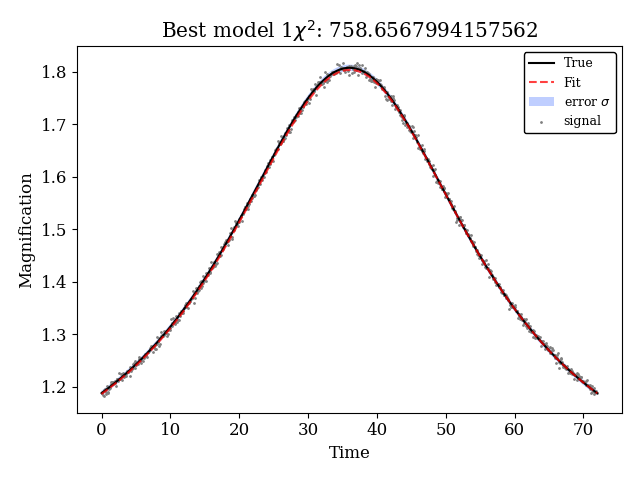
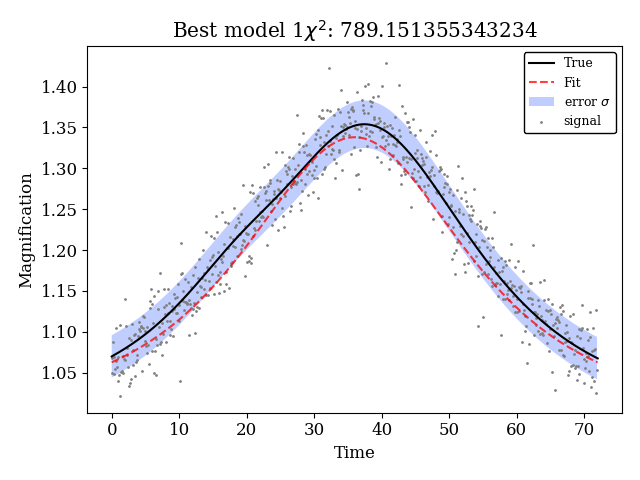
plot for talk

diff --git a/ReversibleJump.py b/ReversibleJump.py
@@ -45,23 +45,23 @@ sn = 2
 theta_Models = [
     [36, 0.633, 31.5, 0.0096, 0.025, 1.27, 210.8], # 0 strong binary
     [36, 0.133, 31.5, 0.0096, 0.00091, 1.3, 210.8], # 1 weak binary 1
-    [36, 0.833, 21.5, 0.0056, 0.003, 1.3, 210.8], # 2 weak binary 2
+    [36, 0.933, 21.5, 0.0056, 0.065, 1.1, 210.8], # 2 weak binary 2
     [36, 0.833, 31.5, 0.0096, 0.0001, 4.9, 223.8], # 3 indistiguishable from single
     [36, 0.633, 31.5]  # 4 single
     ]
 theta_Model = np.array(theta_Models[sn])
 # 36, 'u_0': 0.833, 't_E': 21.5, 'rho': 0.0056, 'q': 0.025, 's': 1.3, 'alpha': 210.8
-#Model = mm.Model(dict(zip(['t_0', 'u_0', 't_E', 'rho', 'q', 's', 'alpha'], theta_Model)))
-#Model.set_magnification_methods([0., 'VBBL', 72.])
+Model = mm.Model(dict(zip(['t_0', 'u_0', 't_E', 'rho', 'q', 's', 'alpha'], theta_Model)))
+Model.set_magnification_methods([0., 'VBBL', 72.])
 
-Model = mm.Model(dict(zip(['t_0', 'u_0', 't_E'], theta_Model)))
-Model.set_magnification_methods([0., 'point_source', 72.])
+#Model = mm.Model(dict(zip(['t_0', 'u_0', 't_E'], theta_Model)))
+#Model.set_magnification_methods([0., 'point_source', 72.])
 
 Model.plot_magnification(t_range=[0, 72], subtract_2450000=False, color='black')
 plt.savefig('temp.jpg')
 plt.clf()
 
-#throw=throw
+
 
 #0, 50, 25, 0.3
 # Generate "Synthetic" Lightcurve
@@ -73,7 +73,7 @@ true_data = Model.magnification(epochs)
 #error = Model.magnification(epochs) * 0 + np.max(Model.magnification(epochs))/60 #Model.magnification(epochs)/100 + 0.5/Model.magnification(epochs)
 random.seed(a = 99, version = 2)
 
-signal_to_noise_baseline = np.random.uniform(23.0, 230.0)
+signal_to_noise_baseline = 40#np.random.uniform(23.0, 230.0)
 noise = np.random.normal(0.0, np.sqrt(true_data) / signal_to_noise_baseline, n_epochs) 
 noise_sd = np.sqrt(true_data) / signal_to_noise_baseline
 error = noise_sd
@@ -86,7 +86,26 @@ signal_epochs = np.linspace(0, 72, signal_n_epochs + 1)[:signal_n_epochs]
 true_signal_data = Model.magnification(signal_epochs)
 signal_data = model_data
 
+plt.scatter(epochs, signal_data, color = 'grey', s = 1, label='signal')
+plt.ylabel('Magnification')
+plt.xlabel('Time [days]')
+plt.legend()
+plt.grid()
+plt.tight_layout()
+plt.savefig('ObsTru.png')
+plt.clf()
 
+plt.scatter(epochs, signal_data, color = 'grey', s = 1, label='signal')
+plt.plot(epochs, true_data, color = 'red', label='true')
+plt.ylabel('Magnification')
+plt.xlabel('Time [days]')
+plt.legend()
+plt.grid()
+plt.tight_layout()
+plt.savefig('Tru.png')
+plt.clf()
+
+throw=throw
 #print(Model.magnification(epochs))
 
 iterations = 500
@@ -155,8 +174,8 @@ def ParralelMain(arr):
         ]
     #center_2 = np.array(center_2s[sn])
 
-    #center_2s = interf.get_model_centers(binary_Sposterior, signal_data)
-    center_2s = np.array([3.57005081e+01, 8.38877439e-01, 2.13460770e+01, 1.12689748e-04, 9.46085248e-03, 1.04576159e+00, 3.01164032e+02])
+    center_2s = interf.get_model_centers(binary_Sposterior, signal_data)
+    #center_2s = np.array([3.57005081e+01, 8.38877439e-01, 2.13460770e+01, 1.12689748e-04, 9.46085248e-03, 1.04576159e+00, 3.01164032e+02])
 
 
     #throw=throw
@@ -165,13 +184,13 @@ def ParralelMain(arr):
     #center_2s = f.scale(center_2s)
 
     #print("\n", center_2, " hi")
-    #center_1s = interf.get_model_centers(single_Sposterior, signal_data)
+    center_1s = interf.get_model_centers(single_Sposterior, signal_data)
     #print(Data.flux)
     #binary_ensemble = interf.get_model_ensemble(binary_posterior, Data.flux, 100000)
 
     pltf.LightcurveFitError(2, center_2s, priors, Data, Model, epochs, error, True, "BinaryCenterSurr")
     pltf.LightcurveFitError(1, center_1s, priors, Data, Model, epochs, error, True, "SingleCenterSurr")
-
+    throw=throw
     
     #fun_1 = lambda x: -f.logLikelihood(1, Data, x, priors)
     #min_center_1 = minimize(fun_1, center_1s, method='Nelder-Mead')
